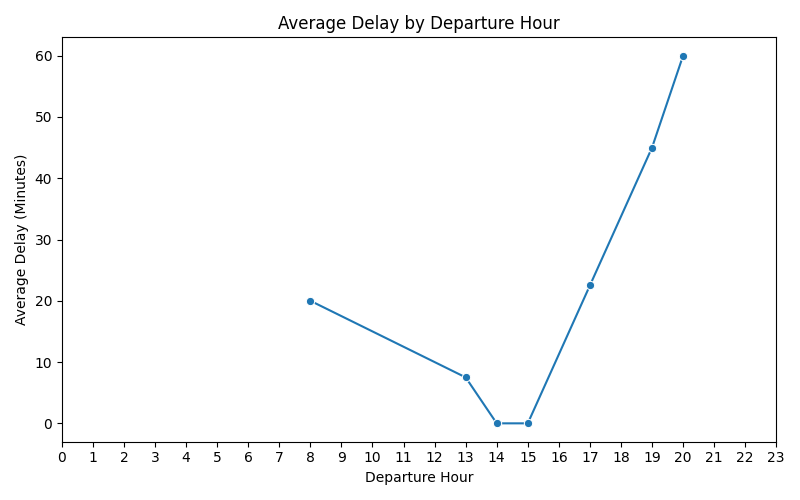
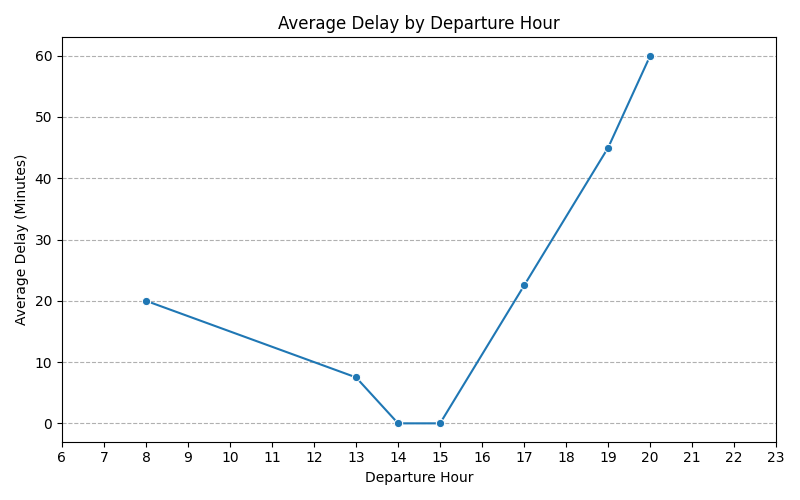
Update .gitignore and enhance data visualization in generate_report.py; fix delay minutes in aviation_report.html

diff --git a/reports/aviation_report.html b/reports/aviation_report.html
@@ -163,7 +163,7 @@
     </tr>
     <tr>
       <th>DelayMinutes</th>
-      <td>32</td>
+      <td>8</td>
     </tr>
   </tbody>
 </table><h3>Missing Values After Handling:</h3><table border="1" class="dataframe">
@@ -207,7 +207,7 @@
       <td>0</td>
     </tr>
   </tbody>
-</table><br/><hr><h2>Checking for Duplicates...</h2><p><strong>Number of duplicate entries:</strong> 180</p><p> <strong > Number of entries after removing duplicates: </strong > 12 </p ><br/><hr><h2>Checking for Inconsistent Time Entries...</h2><p > <strong > Number of inconsistent time entries: </strong > 1 </p ><p > <strong > Number of entries after removing inconsistent time entries: </strong > 11 </p ><p>Converted DepartureTime and ArrivalTime to 24-hour format and combined with dates.</p><br/><hr><h2>Normalizing Data...</h2><p>Converted DepartureDate and ArrivalDate to YYYY-MM-DD format.</p><p>Replaced original time columns with 24-hour format and removed temporary columns.</p><p>Calculated FlightDuration in minutes.</p><br/><hr><h2>Performing Data Analysis...</h2><h3>Delay Minutes Summary:</h3><table border="1" class="dataframe">
+</table><br/><hr><h2>Checking for Duplicates...</h2><p><strong>Number of duplicate entries:</strong> 36</p><p> <strong > Number of entries after removing duplicates: </strong > 12 </p ><br/><hr><h2>Checking for Inconsistent Time Entries...</h2><p > <strong > Number of inconsistent time entries: </strong > 1 </p ><p > <strong > Number of entries after removing inconsistent time entries: </strong > 11 </p ><p>Converted DepartureTime and ArrivalTime to 24-hour format and combined with dates.</p><br/><hr><h2>Normalizing Data...</h2><p>Converted DepartureDate and ArrivalDate to YYYY-MM-DD format.</p><p>Replaced original time columns with 24-hour format and removed temporary columns.</p><p>Calculated FlightDuration in minutes.</p><br/><hr><h2>Performing Data Analysis...</h2><h3>Delay Minutes Summary:</h3><table border="1" class="dataframe">
   <thead>
     <tr style="text-align: right;">
       <th></th>

diff --git a/generate_report.py b/generate_report.py
@@ -364,6 +364,7 @@ def data_analysis(df, messages):
     plt.xlabel("Departure Hour")
     plt.ylabel("Delay Minutes")
     plt.legend(title="Airline", bbox_to_anchor=(1.05, 1), loc="upper left")
+    plt.grid(axis="y", linestyle="--")
     plt.tight_layout()
     plt.savefig("reports/departure_vs_delay.png")
     plt.close()
@@ -391,7 +392,8 @@ def data_analysis(df, messages):
     plt.title("Average Delay by Departure Hour")
     plt.xlabel("Departure Hour")
     plt.ylabel("Average Delay (Minutes)")
-    plt.xticks(range(0, 24))
+    plt.xticks(range(6, 24))
+    plt.grid(axis="y", linestyle="--")
     plt.tight_layout()
     plt.savefig("reports/average_delay_hour.png")
     plt.close()
